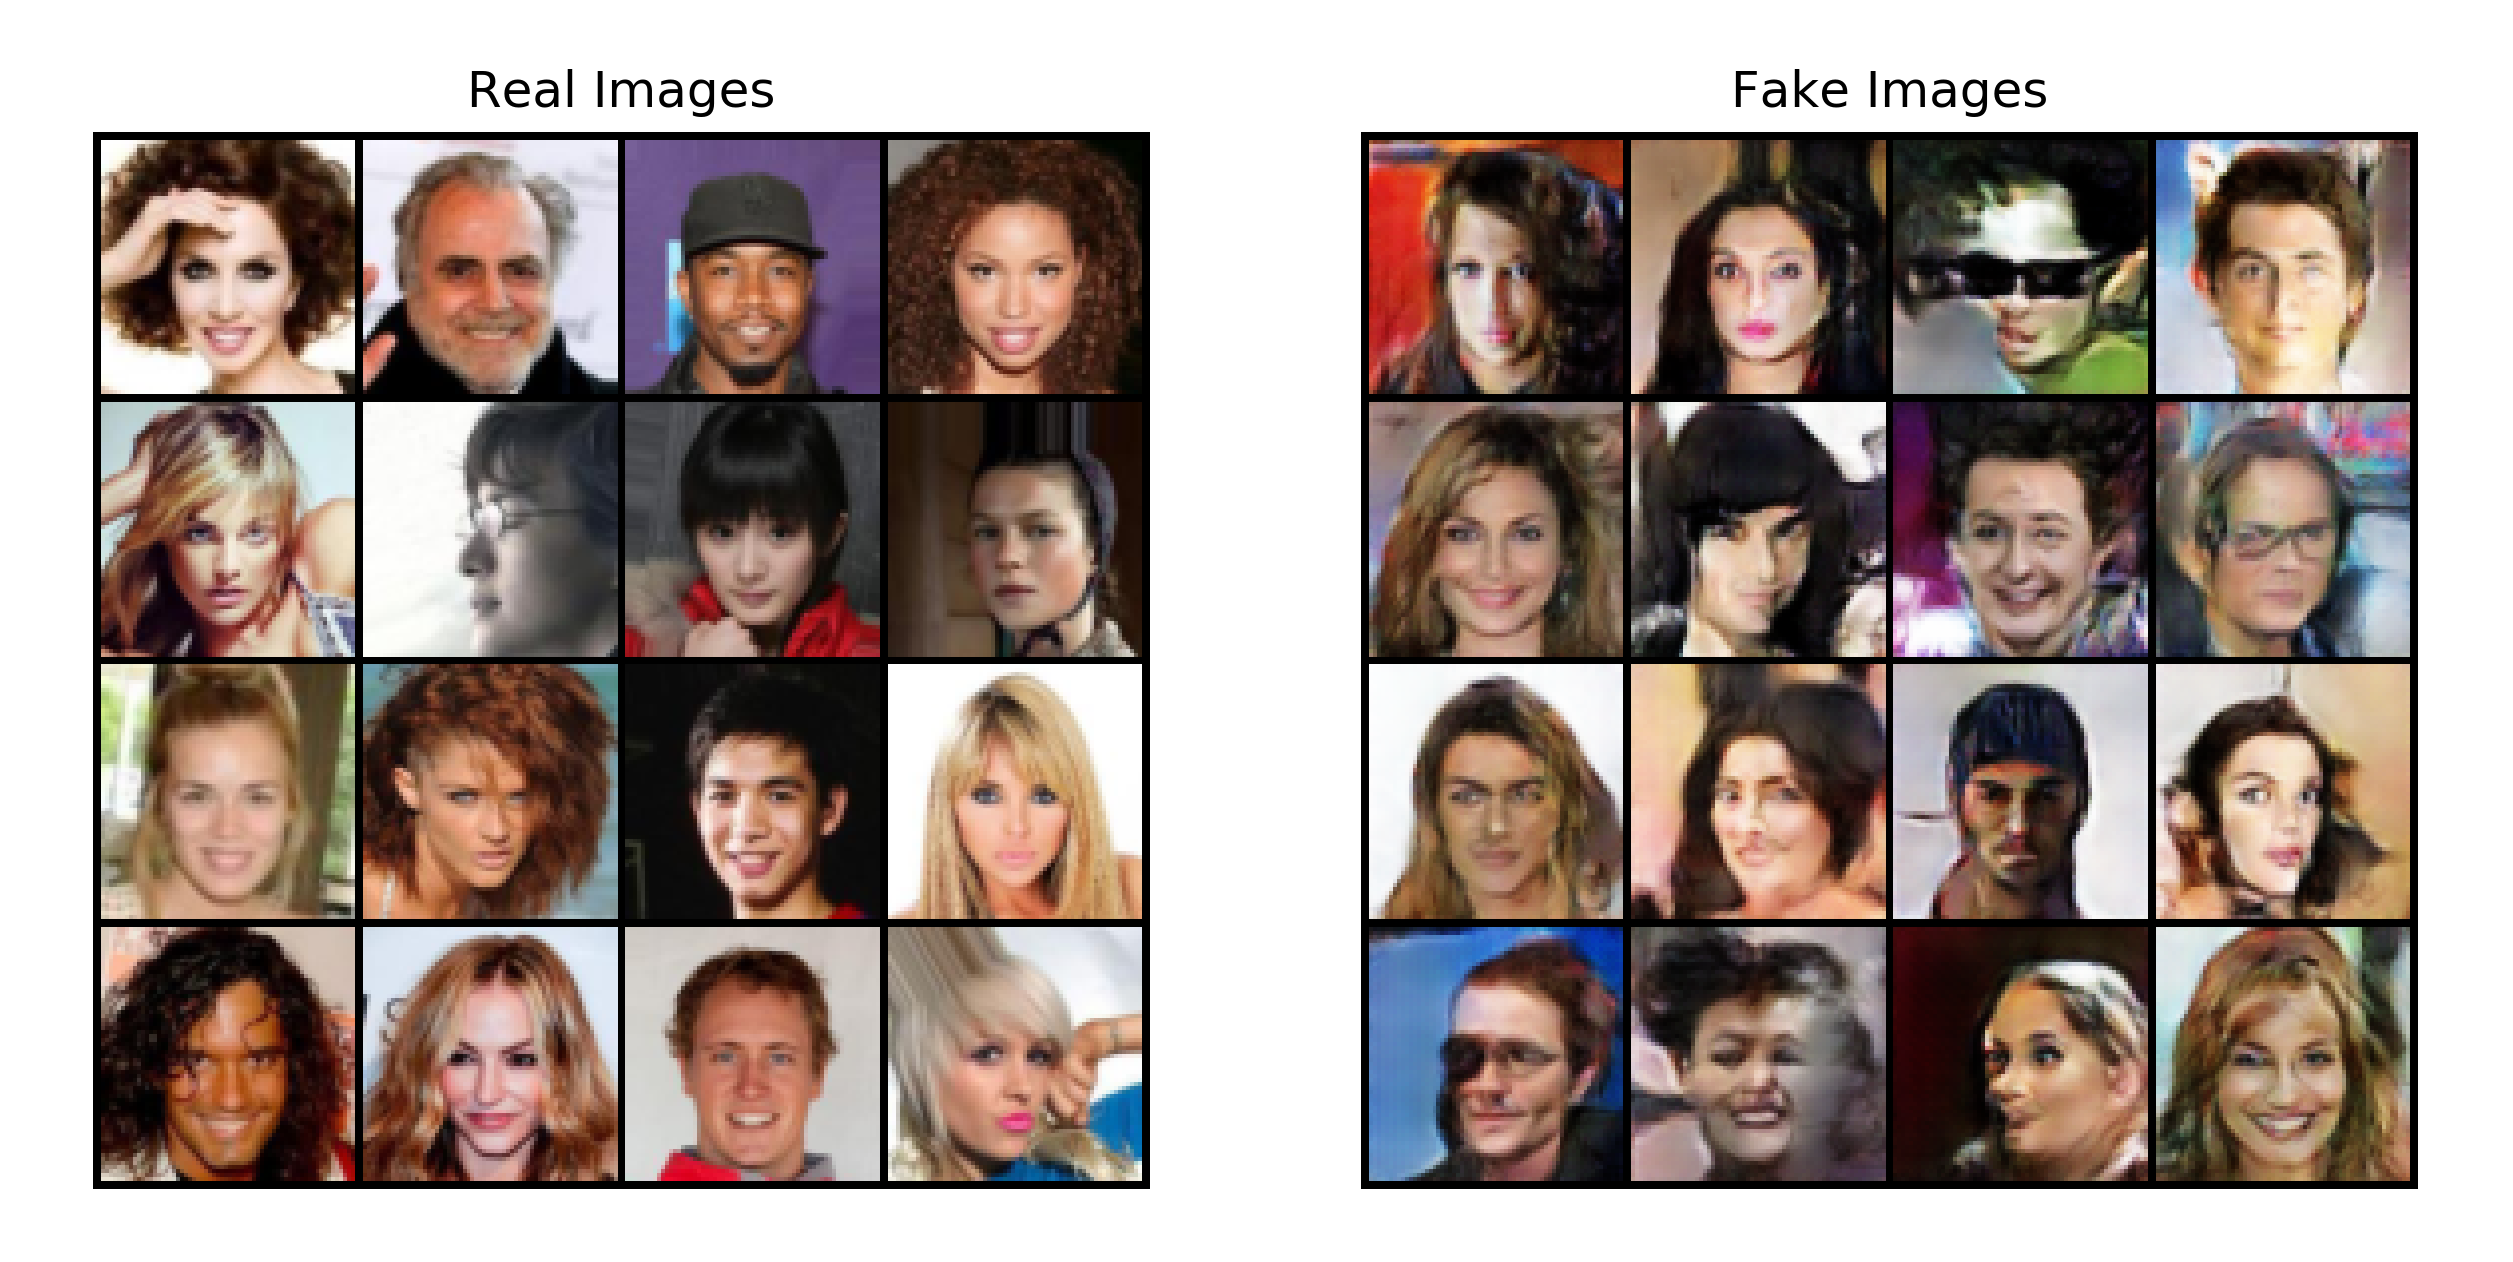
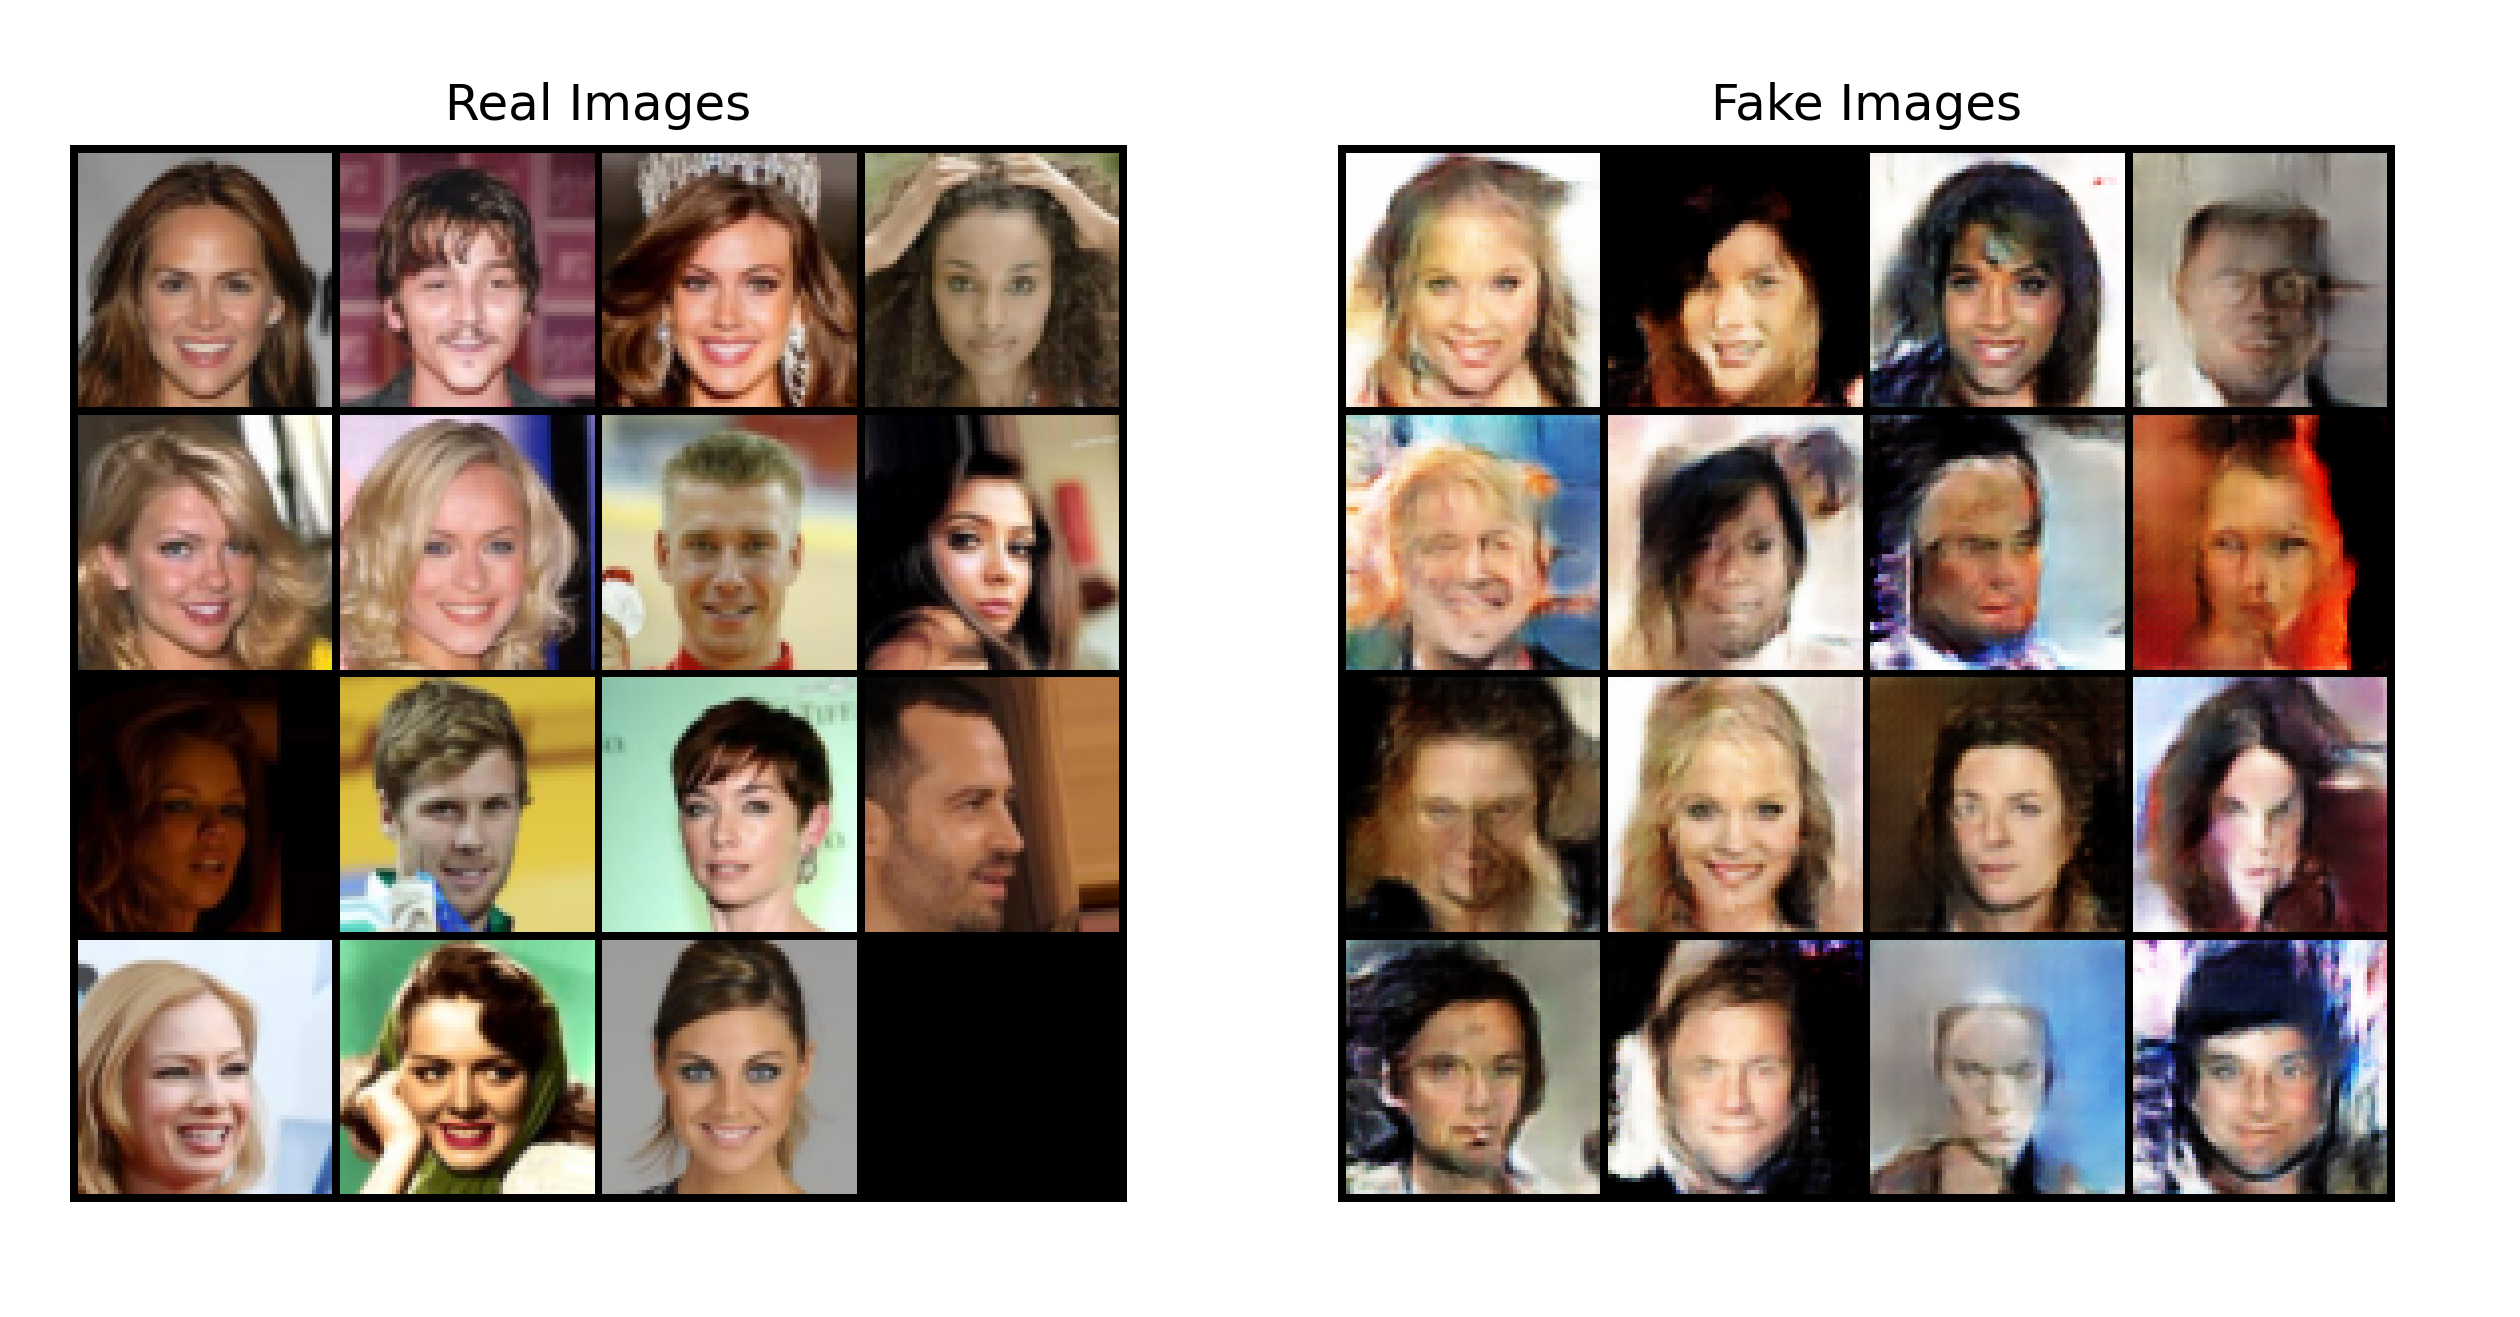
GPU enabled and GPU run results

diff --git a/main.py b/main.py
@@ -3,6 +3,7 @@ import torch
 import seaborn as sns
 import matplotlib.pyplot as plt
 import os
+import time
 
 import utils
 from Generator import Generator
@@ -15,12 +16,16 @@ config = utils.load_config(config_file)
 utils.set_manual_seed(config)
 dataset = utils.load_transformed_dataset(config)
 dataloader = utils.get_dataloader(config,dataset)
+device = torch.device("cuda:0" if (torch.cuda.is_available() and config['ngpu'] > 0) else "cpu")
+print("Using device : ", device)
 
-gen = Generator(config)
-dis = Discriminator(config)
+#initialize models
+gen = Generator(config).to(device)
+dis = Discriminator(config).to(device)
 gen.apply(utils.init_weights)
 dis.apply(utils.init_weights)
 
+#setup optimizers
 gen_optimizer = torch.optim.Adam(params=gen.parameters(), 
                             lr=config['lr'],
                             betas=[config['beta1'],config['beta2']])
@@ -29,13 +34,14 @@ dis_optimizer = torch.optim.Adam(params=dis.parameters(),
                             betas=[config['beta1'],config['beta2']])
 
 criterion = torch.nn.BCELoss()
-fixed_latent = torch.randn(16,config['len_z'],1,1)
+fixed_latent = torch.randn(16,config['len_z'],1,1,device=device)
 
 dis_loss = []
 gen_loss = []
 generated_imgs = []
 iteration = 0
 
+#load parameters
 if(config['load_params'] and os.path.isfile("./gen_params.pth.tar")):
     print("loading params...")
     gen.load_state_dict(torch.load("./gen_params.pth.tar"))
@@ -46,7 +52,7 @@ if(config['load_params'] and os.path.isfile("./gen_params.pth.tar")):
     print("loaded params.")
 
 #training
-#'''
+start_time = time.time()
 for epoch in range(config['epochs']):
     iterator = iter(dataloader)
     dataloader_flag = True
@@ -57,20 +63,21 @@ for epoch in range(config['epochs']):
             dis_optimizer.zero_grad()
 
             #sample mini-batch
-            z = torch.randn(config['batch_size'],config['len_z'],1,1)
+            z = torch.randn(config['batch_size'],config['len_z'],1,1,device=device)
 
             #get images from dataloader via iterator
             try:
                 imgs, _ = next(iterator)
+                imgs = imgs.to(device)
             except:
                 dataloader_flag = False
                 break
 
             #compute loss
-            loss_true_imgs = criterion(dis(imgs).view(-1),torch.ones(imgs.shape[0]))
+            loss_true_imgs = criterion(dis(imgs).view(-1),torch.ones(imgs.shape[0],device=device))
             loss_true_imgs.backward()
             fake_images = gen(z)    
-            loss_fake_imgs = criterion(dis(fake_images.detach()).view(-1),torch.zeros(z.shape[0]))
+            loss_fake_imgs = criterion(dis(fake_images.detach()).view(-1),torch.zeros(z.shape[0],device=device))
             loss_fake_imgs.backward()
 
             total_error = loss_fake_imgs+loss_true_imgs
@@ -78,13 +85,15 @@ for epoch in range(config['epochs']):
         
         #generator step
         for _ in range(config['generator_steps']):
+            if(dataloader_flag==False):
+                break
             gen.zero_grad()
             dis.zero_grad()
             dis_optimizer.zero_grad()
             gen_optimizer.zero_grad()
 
             #z = torch.randn(config['batch_size'],config['len_z'])   #sample mini-batch
-            loss_gen = criterion(dis(fake_images).view(-1),torch.ones(z.shape[0]))    #compute loss
+            loss_gen = criterion(dis(fake_images).view(-1),torch.ones(z.shape[0],device=device))    #compute loss
 
             #update params
             loss_gen.backward()
@@ -92,33 +101,34 @@ for epoch in range(config['epochs']):
 
         iteration+=1
         
-        #log things
+        #log and save variable, losses and generated images
         if(iteration%50)==0:
+            elapsed_time = time.time()-start_time
             dis_loss.append(total_error.mean().item())
             gen_loss.append(loss_gen.mean().item())
 
-            if(epoch%1000==0) or iteration%50==0:
-                if(iteration==100):
-                    with torch.no_grad():
-                        generated_imgs.append(gen(fixed_latent).detach())    #generate image
-                        torch.save(generated_imgs,"gen_imgs_array.pt")
-                    utils.save_result_images(next(iter(dataloader))[0],generated_imgs[-1],4)
+            if(iteration%100==0):
+                with torch.no_grad():
+                    generated_imgs.append(gen(fixed_latent).detach())    #generate image
+                    torch.save(generated_imgs,"gen_imgs_array.pt")
+                utils.save_result_images(next(iter(dataloader))[0][:15],generated_imgs[-1].cpu(),4,config)
+                utils.save_loss_plot(gen_loss,dis_loss)
 
-                print("Loss iteration:%d, Dis Loss:%.4f, Gen Loss:%.4f"%(iteration,dis_loss[-1],gen_loss[-1]))
-                
-                if( config['save_params'] ):
-                    print("saving params...")
-                    torch.save(gen.state_dict(), "./gen_params.pth.tar")
-                    torch.save(dis.state_dict(), "./dis_params.pth.tar")
-                    torch.save(dis_optimizer.state_dict(), "./dis_optimizer_state.pth.tar")
-                    torch.save(gen_optimizer.state_dict(), "./gen_optimizer_state.pth.tar")
-                    print("saved params.")
+            print("Iteration:%d, Dis Loss:%.4f, Gen Loss:%.4f, time elapsed:%.4f"%(iteration,dis_loss[-1],gen_loss[-1],elapsed_time))
+            
+            if( config['save_params'] ):
+                print("saving params...")
+                torch.save(gen.state_dict(), "./gen_params.pth.tar")
+                torch.save(dis.state_dict(), "./dis_params.pth.tar")
+                torch.save(dis_optimizer.state_dict(), "./dis_optimizer_state.pth.tar")
+                torch.save(gen_optimizer.state_dict(), "./gen_optimizer_state.pth.tar")
+                print("saved params.")
 
 #plot errors
 utils.save_loss_plot(gen_loss,dis_loss)
 
 #plot generated images
-utils.save_result_images(next(iter(dataloader))[0],generated_imgs[-1],4,config)
+utils.save_result_images(next(iter(dataloader))[0][:15].to(device),generated_imgs[-1],4,config)
 
 #save generated images so see what happened
 torch.save(generated_imgs,"gen_imgs_array.pt")

diff --git a/utils.py b/utils.py
@@ -5,10 +5,14 @@ import numpy as np
 import matplotlib.pyplot as plt
 import torchvision.utils as vutils
 import torch.nn as nn
+import matplotlib.animation as animation
+import torchvision.utils as vutils
+from matplotlib.animation import PillowWriter
 
 from torchvision import transforms
 from torchvision.datasets import ImageFolder
 from torch.utils.data import DataLoader
+
 
 def load_config(file_name):
     config=yaml.safe_load(open(file_name))
@@ -74,10 +78,19 @@ def save_result_images(real_images,fake_images,nrow,config):
     grid_real = vutils.make_grid(real_images*std+mean,nrow=nrow)
     plt.axis("off")
     plt.title("Real Images")
-    plt.imshow(grid_real.permute(1,2,0))
     plt.subplot(1,2,2)
     grid_fake = vutils.make_grid(fake_images*std+mean,nrow=nrow)
     plt.axis("off")
     plt.title("Fake Images")
-    plt.imshow(grid_fake.permute(1,2,0))
     plt.savefig("./generated_images.png",dpi=300)
+
+def save_gif(image_array,nrow,config):
+    mean = config['input_normalise_mean']
+    std = config['input_normalise_std']
+    fig = plt.figure(figsize=(8,8))
+    plt.axis("off")
+    imgs = [vutils.make_grid(i.cpu()*std+mean,nrow=nrow) for i in image_array]
+    ims = [[plt.imshow(np.transpose(i.cpu(),(1,2,0)), animated=True)] for i in imgs]
+    ani = animation.ArtistAnimation(fig, ims, interval=100, repeat_delay=1000, blit=True)
+
+    ani.save('./animation.gif', writer=PillowWriter(fps=10))

diff --git a/README.md b/README.md
@@ -22,9 +22,17 @@ mkdir celeba && wget https://s3-us-west-1.amazonaws.com/udacity-dlnfd/datasets/c
 * run main.py
 
 # Results
-Using 5 epochs on CPU:
+Using 3 epochs on GPU
 
 ![](./generated_images.png)
+
+GPU Training animation
+
+![](./animation.gif)
+
+Loss
+
+![](./loss.png)
 
 # DCGAN Implementation using PyTorch
 DCGAN implementation for learning.
